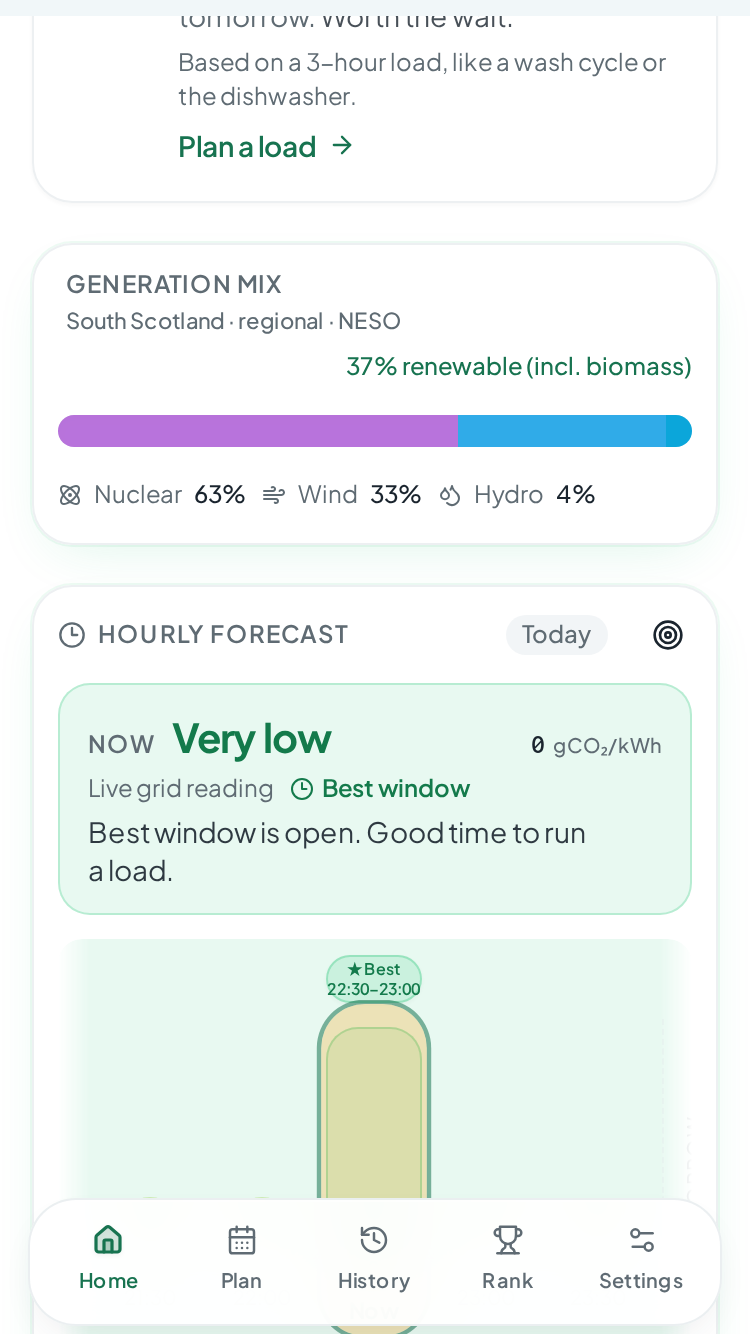
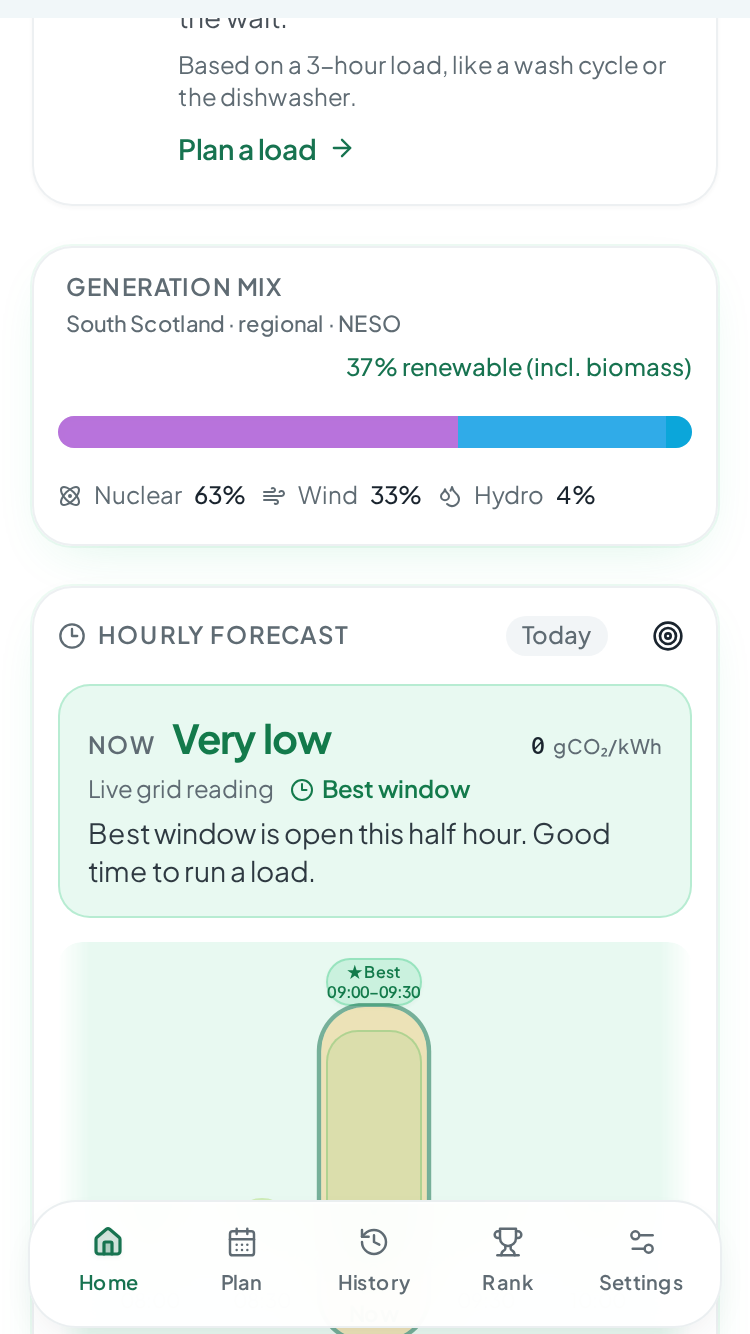
F-01: every forecast slot is a half hour; as-clean-as-it-gets line when no later slot is lower

diff --git a/src/lib/forecastHourInsight.ts b/src/lib/forecastHourInsight.ts
@@ -70,21 +70,25 @@ function buildAction(
   inBestWindow: boolean,
   minutesUntil: number,
   nowAction?: NowOrWaitAction,
+  laterLower = false,
 ): string {
   if (isPast) {
-    return 'Past hour. Handy for checking forecast vs actual.';
+    return 'Past half hour. Handy for checking forecast vs actual.';
   }
   // The current hour must agree with the now-or-wait card above the chart.
   if (isCurrent && nowAction === 'wait') {
     return 'Cleaner hours are coming. Wait if you can.';
   }
   if (isCurrent && nowAction === 'use_now' && (band === 'high' || band === 'very high')) {
-    return "Dirty hour, but it won't get much cleaner soon.";
+    return "Dirty half hour, but it won't get much cleaner soon.";
   }
   if (isCurrent && nowAction === 'use_now' && band === 'moderate') {
-    return "Middling hour, but it won't get much cleaner soon.";
+    return "Middling half hour, but it won't get much cleaner soon.";
   }
   if (inBestWindow) {
+    if (isCurrent && !laterLower) {
+      return 'This half hour is as clean as it gets. Good time to run a load.';
+    }
     return isCurrent
       ? 'Best window is open this half hour. Good time to run a load.'
       : 'In a best window. A good slot to plan a load.';
@@ -94,18 +98,18 @@ function buildAction(
       ? "Grid's clean this half hour. Go for big loads."
       : vsNowCleaner
         ? 'Cleaner than now. Worth moving a load here.'
-        : 'Still a clean hour on the grid.';
+        : 'Still a clean half hour on the grid.';
   }
   if (band === 'high' || band === 'very high') {
     if (isCurrent) return 'Dirty half hour. Wait if you can.';
     if (minutesUntil > 0 && minutesUntil < 18 * 60) {
-      return 'Best not to start big loads in this hour.';
+      return 'Best not to start big loads in this half hour.';
     }
-    return 'High-carbon hour. Move it if you can.';
+    return 'High-carbon half hour. Move it if you can.';
   }
   return isCurrent
     ? 'Middling half hour. Check the chart for a cleaner one.'
-    : 'Moderate hour. Check the hours either side.';
+    : 'Moderate half hour. Check the slots either side.';
 }
 
 /**
@@ -152,6 +156,8 @@ export function getForecastHourInsight(
       inBestWindow,
       minutesUntil,
       nowAction,
+      // True when any later slot is forecast lower than this one.
+      forecast.slice(selectedIndex + 1).some((f) => f.intensity.forecast < value),
     ),
     inBestWindow,
     washClass: WASH[band] ?? WASH.moderate,

diff --git a/src/lib/forecastHourInsight.test.ts b/src/lib/forecastHourInsight.test.ts
@@ -123,10 +123,60 @@ describe('F-01: current-slot copy names this half hour', () => {
     from.setSeconds(0, 0);
     return from;
   };
-  it('best window open says this half hour', () => {
-    const f = [slotAt(cur(), 0, 'very low')];
+  it('best window with no lower later slot says as clean as it gets', () => {
+    const c = cur();
+    const f = [
+      slotAt(c, 0, 'very low'),
+      slotAt(new Date(c.getTime() + 30 * 60_000), 0, 'very low'),
+    ];
     const i = getForecastHourInsight(f, 0, 0, 'plain', new Date(), new Set([0]));
+    expect(i!.action).toBe('This half hour is as clean as it gets. Good time to run a load.');
+  });
+  it('best window with a lower later slot keeps the fallback', () => {
+    const c = cur();
+    const f = [
+      slotAt(c, 20, 'very low'),
+      slotAt(new Date(c.getTime() + 30 * 60_000), 5, 'very low'),
+    ];
+    const i = getForecastHourInsight(f, 0, 20, 'plain', new Date(), new Set([0]));
     expect(i!.action).toBe('Best window is open this half hour. Good time to run a load.');
+  });
+  it('past and future slots say half hour', () => {
+    const past = new Date(Date.now() - 2 * 3600_000);
+    expect(getForecastHourInsight([slotAt(past, 100)], 0, 100)!.action).toBe(
+      'Past half hour. Handy for checking forecast vs actual.',
+    );
+    const later = new Date(Date.now() + 30 * 3600_000);
+    expect(getForecastHourInsight([slotAt(later, 150, 'moderate')], 0, 150)!.action).toBe(
+      'Moderate half hour. Check the slots either side.',
+    );
+    expect(getForecastHourInsight([slotAt(later, 300, 'very high')], 0, 300)!.action).toBe(
+      'High-carbon half hour. Move it if you can.',
+    );
+  });
+  it('use-now current slots say half hour', () => {
+    expect(
+      getForecastHourInsight(
+        [slotAt(cur(), 300, 'very high')],
+        0,
+        300,
+        'plain',
+        new Date(),
+        new Set(),
+        'use_now',
+      )!.action,
+    ).toBe("Dirty half hour, but it won't get much cleaner soon.");
+    expect(
+      getForecastHourInsight(
+        [slotAt(cur(), 150, 'moderate')],
+        0,
+        150,
+        'plain',
+        new Date(),
+        new Set(),
+        'use_now',
+      )!.action,
+    ).toBe("Middling half hour, but it won't get much cleaner soon.");
   });
   it('clean current slot says this half hour', () => {
     const f = [slotAt(cur(), 20, 'very low')];

diff --git a/src/components/ForecastChart.tsx b/src/components/ForecastChart.tsx
@@ -331,7 +331,7 @@ export function ForecastChart({
           insight?.washClass,
         )}
         role="listbox"
-        aria-label="Select a forecast hour"
+        aria-label="Select a forecast half hour"
         aria-activedescendant={selectedIndex >= 0 ? `forecast-hour-${selectedIndex}` : undefined}
         data-testid="forecast-strip"
         data-scrubbing={scrubbing || undefined}
